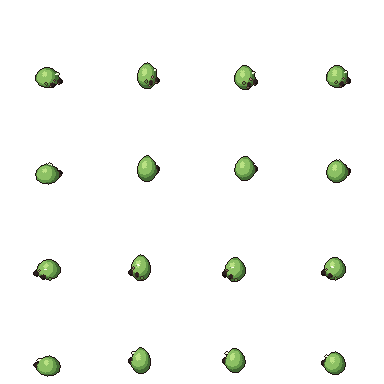
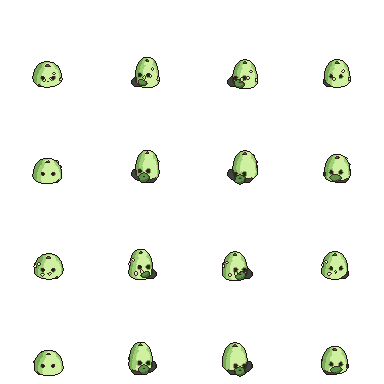
fix: monsters: mossSlime legivel (gota que espalha, rosto, nucleo, musgo e sombra)
- base larga e topo arredondado com bico leve (perfil por aneis, exato)
- rosto voltado para a camera nas 4 direcoes: olhos 3-4 px com brilho branco e boca simples
- nucleo escuro na frente, pedrinhas e folhas claras visiveis, tufo de musgo no topo
- sombra de contato no chao (disco escuro fixo); pivo (48, 80) para caber a sombra

diff --git a/art-source/monsters/mossSlime/build.py b/art-source/monsters/mossSlime/build.py
@@ -1,15 +1,18 @@
 """Gosma-de-musgo (mossSlime), familia slime, fatia D1 do plano masmorra v2.
 
-Gota gelatinosa verde-musgo com pedrinhas e folhas presas na superficie, dois olhos e um brilho umido.
-Escala FISICA do personagem A7 (43,92 px por metro na celula 96): a gota tem ~0,45 m de altura, ~0,25 do
-jogador (1,9 m). Nada de autofit.
+Gota gelatinosa verde-musgo: base larga que se espalha no chao, topo arredondado com bico leve; nucleo mais
+escuro na frente, borda clara; 3 pedrinhas e 2 folhas claras presas na casca; tufo de musgo no topo; olhos
+com brilho e boca voltados para a frente nas 4 direcoes; sombra de contato no chao.
+Escala FISICA do personagem A7 (43,92 px/m na celula 96): gota de ~0,48 m, cerca de 0,25 do jogador. Sem autofit.
 
 Render: 4 direcoes radiais (SE, NE, SO, NO), sem espelho (a luz da biblioteca e assimetrica).
-Animacoes: parado 4 (pulsar), andar 6 (esticar e saltar), atacar 4 (bote, golpe no quadro 2),
-morrer 6 (derreter; fica no ultimo quadro). Saida: uma folha crua por animacao (linhas = direcoes na ordem de
-RADIAL4, colunas = quadros) em OUTDIR, e spec.json ao lado deste arquivo.
+Corpo e enfeites giram com a direcao; rosto e boca ficam voltados para a camera. A sombra fica no chao.
+Animacoes: parado 4 (pulsar), andar 6 (esticar e saltar), atacar 4 (bote, golpe no quadro 2), morrer 6 (derreter).
+Saida: uma folha crua por animacao (linhas = direcoes na ordem de RADIAL4, colunas = quadros) em OUTDIR, e
+spec.json ao lado deste arquivo.
 
-Ambiente: REPO (raiz do worktree), OUTDIR (saida crua), ANIMS (ex.: parado,andar; padrao todas), TAG (log).
+Ambiente: REPO (raiz do worktree), OUTDIR (saida crua), ANIMS (ex.: parado,andar; padrao todas), TAG (log),
+ESCREVER_SPEC (1 grava spec.json).
 Rodar: REPO=... OUTDIR=... ANIMS=parado timeout 900 blender -b --factory-startup -P build.py
 """
 import json
@@ -34,22 +37,82 @@ HERE = os.path.dirname(os.path.abspath(__file__))
 TAG = os.environ.get("TAG", "run")
 DIRS = PP.RADIAL4                          # SE, NE, SO, NO (ordem de FOUR em game/monster-sprites.mjs)
 
-ALTURA = 0.45                              # m
-RAIO = 0.26                                # m, meia largura da base
+ALTURA = 0.45                              # m (corpo, sem o bico)
+RAIO = 0.26                                # m, raio de referencia
+BICO = 0.03                                # m, bico leve no topo
+
 # ------------------------------------------------------------------ paleta por material (tons claro -> escuro)
 MATS = {
-    "gelatina": dict(r=[(186, 226, 132), (140, 192, 100), (98, 150, 72), (66, 104, 52)], layer="corpo",
-                     w=1.0, dith=0.02, bias=0.0, ao=0.45),
-    "pedra": dict(r=[(164, 146, 122), (120, 104, 88), (84, 72, 60)], layer="corpo", w=0.9, dith=0.02, bias=0.0, ao=0.6),
-    "folha": dict(r=[(92, 150, 70), (60, 110, 48), (40, 76, 36)], layer="corpo", w=0.9, dith=0.02, bias=0.0, ao=0.6),
-    "olho": dict(r=[(44, 34, 34), (22, 18, 18)], layer="olhos", w=1.0, dith=0.0, bias=0.0, ao=0.2),
-    "brilho": dict(r=[(248, 252, 230), (214, 236, 196)], layer="brilho", w=1.0, dith=0.0, bias=0.0, ao=0.0),
+    "gelatina": dict(r=[(206, 240, 160), (160, 206, 118), (118, 168, 88)], layer="corpo", w=1.0, dith=0.02, bias=0.0, ao=0.4),
+    "nucleo": dict(r=[(92, 146, 74), (64, 110, 54)], layer="corpo", w=1.0, dith=0.02, bias=0.0, ao=0.5),
+    "pedra_clara": dict(r=[(246, 242, 226), (214, 208, 186), (176, 170, 150)], layer="corpo", w=0.9, dith=0.02, bias=0.0, ao=0.5),
+    "folha_clara": dict(r=[(206, 240, 150), (168, 212, 118)], layer="corpo", w=0.9, dith=0.02, bias=0.0, ao=0.5),
+    "musgo": dict(r=[(70, 122, 52), (46, 92, 38)], layer="corpo", w=1.0, dith=0.02, bias=0.0, ao=0.6),
+    "sombra": dict(r=[(60, 70, 60), (42, 50, 42)], layer="sombra", w=1.0, dith=0.0, bias=0.0, ao=0.0),
+    "olho": dict(r=[(34, 30, 30), (16, 14, 14)], layer="olhos", w=1.0, dith=0.0, bias=0.0, ao=0.2),
+    "brilho": dict(r=[(255, 255, 240), (230, 246, 210)], layer="brilho", w=1.0, dith=0.0, bias=0.0, ao=0.0),
 }
-CAMADAS = ["corpo", "olhos", "brilho"]
-ESTILO = PP.Estilo(tile=TILE, mats=MATS, camadas=CAMADAS, sem_linha=("brilho",))
+CAMADAS = ["sombra", "corpo", "olhos", "brilho"]          # ordem de baixo para cima
+# pe do modelo na linha 80 (pivo (48, 80)): a sombra de contato precisa de folga abaixo da base iso
+ESTILO = PP.Estilo(tile=TILE, mats=MATS, camadas=CAMADAS, sem_linha=("brilho", "sombra"),
+                   origem_y=80.0, pivo=(TILE // 2, 80))
 
 
-# ------------------------------------------------------------------ malhas (metros, base no z = 0, olhos na frente = -Y)
+# ------------------------------------------------------------------ perfil do corpo (anel por anel, exato)
+N_ANEIS = 10
+M_LADOS = 14
+
+
+def perfil():
+    """Anel i (1..N): s = i/N de 0 (topo) a 1 (base). Base larga (1,1 R), topo arredondado (0,5 R) com bico."""
+    zs, rs = [], []
+    for i in range(1, N_ANEIS + 1):
+        s = i / N_ANEIS
+        z = ALTURA * math.cos(s * math.pi / 2) ** 0.9 + BICO * max(0.0, 1 - s / 0.2) ** 2
+        r = RAIO * (0.5 + 0.6 * math.sin(s * math.pi / 2))
+        zs.append(z)
+        rs.append(r)
+    return zs, rs
+
+
+ZS, RS = perfil()
+ZS_ASC, RS_ASC = list(reversed(ZS)), list(reversed(RS))
+
+
+def raio_superficie(z):
+    """Raio da casca na altura z (interpolado entre os aneis exatos)."""
+    return float(np.interp(min(max(z, 0.0), ZS[0]), ZS_ASC, RS_ASC))
+
+
+def sobre_superficie(theta, z, afasta=0.0):
+    r = raio_superficie(z) + afasta
+    return (r * math.cos(theta), r * math.sin(theta), z)
+
+
+def gelatina():
+    verts = [(0.0, 0.0, ZS[0] + 0.0)]                         # polo do topo (com bico)
+    verts[0] = (0.0, 0.0, ZS[0] + 0.0)
+    for i in range(N_ANEIS):
+        for j in range(M_LADOS):
+            a = 2 * math.pi * j / M_LADOS
+            verts.append((RS[i] * math.cos(a), RS[i] * math.sin(a), ZS[i]))
+    centro_base = len(verts)
+    verts.append((0.0, 0.0, 0.0))
+
+    def idx(i, j):                                            # i = 0..N-1 (anel i+1), j modulo M
+        return 1 + i * M_LADOS + (j % M_LADOS)
+
+    faces = []
+    for j in range(M_LADOS):
+        faces.append((0, idx(0, j), idx(0, j + 1)))
+    for i in range(N_ANEIS - 1):
+        for j in range(M_LADOS):
+            faces.append((idx(i, j), idx(i, j + 1), idx(i + 1, j + 1), idx(i + 1, j)))
+    for j in range(M_LADOS):
+        faces.append((centro_base, idx(N_ANEIS - 1, j + 1), idx(N_ANEIS - 1, j)))
+    return verts, faces
+
+
 def icosfera(sub):
     t = (1 + 5 ** 0.5) / 2
     v = [(-1, t, 0), (1, t, 0), (-1, -t, 0), (1, -t, 0), (0, -1, t), (0, 1, t), (0, -1, -t), (0, 1, -t),
@@ -60,6 +123,7 @@ def icosfera(sub):
     v = [tuple(np.array(p) / np.linalg.norm(p)) for p in v]
     for _ in range(sub):
         cache, nf = {}, []
+
         def meio(a, b):
             k = (min(a, b), max(a, b))
             if k not in cache:
@@ -74,83 +138,52 @@ def icosfera(sub):
     return [tuple(p) for p in v], f
 
 
-def corpo_gelatina():
-    """Icosfera de 80 faces (sub=1): cupula com base plana; base larga, topo mais estreito."""
-    v, f = icosfera(1)
-    out = []
-    for x, y, z in v:
-        t = min(1.0, max(0.0, (z + 0.85) / 1.7))          # 0 na base, 1 no topo (aprox.; icosfera tem z em [-0.85, 0.85])
-        h = t * ALTURA
-        fat = 1.0 - 0.35 * t * t
-        out.append((x * RAIO * fat, y * RAIO * fat, h))
-    return out, f
+def elipsoide(c, rx, ry, rz, sub=1):
+    v, f = icosfera(sub)
+    return [(c[0] + x * rx, c[1] + y * ry, c[2] + z * rz) for x, y, z in v], f
 
 
-def pedrinha(c, r):
-    v, f = icosfera(0)
-    return [(c[0] + x * r, c[1] + y * r, c[2] + z * r * 0.7) for x, y, z in v], f
-
-
-def raio_superficie(z):
-    """Raio da superficie do corpo na altura z (mesma forma de corpo_gelatina)."""
-    t = min(1.0, max(0.0, z / ALTURA))
-    return RAIO * (1.0 - 0.35 * t * t)
-
-
-def sobre_superficie(theta, z, afasta=0.0):
-    r = raio_superficie(z) + afasta
-    return (r * math.cos(theta), r * math.sin(theta), z)
-
-
-def folha(theta, z, comp=0.05, larg=0.032):
-    """Folha vertical presa na superficie: losango no plano tangente (T, Z), afastado 0,012 m da casca."""
-    u = (math.cos(theta), math.sin(theta), 0.0)
+def folha(theta, z, comp=0.055, larg=0.034):
+    """Folha vertical presa na casca: losango no plano tangente, afastado da casca."""
     T = (-math.sin(theta), math.cos(theta), 0.0)
-    c = sobre_superficie(theta, z, 0.012)
+    c = sobre_superficie(theta, z, 0.008)
+
     def ponto(a, b):
-        return (c[0] + u[0] * 0 + T[0] * a, c[1] + T[1] * a, c[2] + b)
+        return (c[0] + T[0] * a, c[1] + T[1] * a, c[2] + b)
     return [ponto(0, comp), ponto(larg, 0), ponto(0, -comp * 0.6), ponto(-larg, 0)], [(0, 1, 2, 3)]
 
 
-def olho(theta, z):
-    v, f = icosfera(1)
-    c = sobre_superficie(theta, z, 0.01)
-    return [(c[0] + x * 0.06, c[1] + y * 0.06, c[2] + z2 * 0.06) for x, y, z2 in v], f
+# ------------------------------------------------------------------ partes: (nome, layer, material, grupo, malha, grupo_de_pose)
+# grupo_de_pose: "corpo" gira com a direcao e recebe a pose; "rosto" fica voltado para a camera; "fixo" so gira
+PARTES = []
 
 
-def brilho_umido(theta, z):
-    v, f = icosfera(1)
-    c = sobre_superficie(theta, z, 0.004)
-    return [(c[0] + x * 0.045, c[1] + y * 0.03, c[2] + z2 * 0.018) for x, y, z2 in v], f
+def add(nome, layer, mat, grp, malha, pose_grp="corpo"):
+    PARTES.append((nome, layer, mat, grp, malha, pose_grp))
 
 
-def pedrinha(theta, z, r):
-    v, f = icosfera(0)
-    c = sobre_superficie(theta, z, r * 0.35)
-    return [(c[0] + x * r, c[1] + y * r, c[2] + z2 * r * 0.8) for x, y, z2 in v], f
-
-
-# superficie: pedrinhas e folhas presas na casca (angulo em rad: -pi/2 = frente, -Y; z em m)
-PEDRAS = [(math.radians(-75), 0.14, 0.030), (math.radians(-120), 0.11, 0.024), (math.radians(-98), 0.27, 0.022)]
-FOLHAS = [(math.radians(-140), 0.20), (math.radians(-40), 0.10)]
-OLHOS = [(math.radians(-112), 0.16), (math.radians(-68), 0.16)]
-BRILHO = (math.radians(-62), 0.36)
-
-PARTES = []  # (nome, layer, material, grupo, (verts, faces))
-
-
-def add(nome, layer, mat, grp, malha):
-    PARTES.append((nome, layer, mat, grp, malha))
-
-
-add("corpo", "corpo", "gelatina", 1, corpo_gelatina())
-for i, (th, z, r) in enumerate(PEDRAS):
-    add("pedra%d" % i, "corpo", "pedra", 3, pedrinha(th, z, r))
+add("sombra", "sombra", "sombra", 8, elipsoide((0.0, 0.0, 0.002), 0.35, 0.23, 0.002, 1), "fixo")
+add("casca", "corpo", "gelatina", 1, gelatina())
+add("nucleo", "corpo", "nucleo", 6, elipsoide((0.0, -0.17, 0.085), 0.13, 0.09, 0.09, 1), "rosto")
+PEDRAS = [(math.radians(-70), 0.12, 0.036, "pedra_clara"), (math.radians(-118), 0.24, 0.030, "pedra_clara"),
+          (math.radians(-100), 0.36, 0.026, "pedra_clara")]
+for i, (th, z, r, mat) in enumerate(PEDRAS):
+    c = sobre_superficie(th, z, r * 0.4)
+    add("pedra%d" % i, "corpo", mat, 3, elipsoide(c, r, r, r * 0.8, 0))
+FOLHAS = [(math.radians(-150), 0.20), (math.radians(-40), 0.16)]
 for i, (th, z) in enumerate(FOLHAS):
-    add("folha%d" % i, "corpo", "folha", 4, folha(th, z))
+    add("folha%d" % i, "corpo", "folha_clara", 4, folha(th, z))
+MUSGO = [((0.00, 0.00), 0.455, 0.040), ((0.05, 0.03), 0.430, 0.030), ((-0.05, 0.02), 0.420, 0.030), ((0.01, -0.05), 0.440, 0.026)]
+for i, ((dx, dy), z, r) in enumerate(MUSGO):
+    add("musgo%d" % i, "corpo", "musgo", 7, elipsoide((dx, dy, z), r, r, r * 0.7, 0))
+# rosto (frente = camera): olhos maiores, brilho branco de 1 px e boca simples
+OLHOS = [(math.radians(-112), 0.27), (math.radians(-68), 0.27)]
 for i, (th, z) in enumerate(OLHOS):
-    add("olho%d" % i, "olhos", "olho", 2, olho(th, z))
-add("brilho", "brilho", "brilho", 5, brilho_umido(*BRILHO))
+    c = sobre_superficie(th, z, 0.024)
+    add("olho%d" % i, "olhos", "olho", 2, elipsoide(c, 0.05, 0.05, 0.05, 1), "rosto")
+    add("brilho%d" % i, "brilho", "brilho", 5, elipsoide((c[0] - 0.016, c[1] - 0.030, c[2] + 0.018), 0.014, 0.014, 0.014, 0), "rosto")
+boca_c = sobre_superficie(math.radians(-90), 0.165, 0.012)
+add("boca", "olhos", "olho", 9, elipsoide(boca_c, 0.045, 0.011, 0.011, 0), "rosto")
 
 for ob in list(bpy.data.objects):
     bpy.data.objects.remove(ob, do_unlink=True)
@@ -163,7 +196,7 @@ for nome in ESTILO.nomes:
     BMAT[nome] = m
 
 PARTS = []
-for nome, layer, mat, grp, (verts, faces) in PARTES:
+for nome, layer, mat, grp, (verts, faces), pose_grp in PARTES:
     me = bpy.data.meshes.new(nome)
     me.from_pydata(verts, [], faces)
     me.update()
@@ -179,11 +212,10 @@ for nome, layer, mat, grp, (verts, faces) in PARTES:
     me.materials.append(BMAT[mat])
     ob = bpy.data.objects.new(nome, me)
     coll.objects.link(ob)
-    ob["layer"], ob["only"], ob["grp"] = layer, "", grp
+    ob["layer"], ob["only"], ob["grp"], ob["pose"] = layer, "", grp, pose_grp
     PARTS.append(ob)
 
-
-# ------------------------------------------------------------------ poses (locais, base no z = 0; a frente e -Y)
+# ------------------------------------------------------------------ poses (locais, base no z = 0)
 def escala(sz):
     """Estica em Z e mantem o volume aproximado nos eixos X/Y."""
     return Matrix.Diagonal(Vector((1 / math.sqrt(sz), 1 / math.sqrt(sz), sz, 1)))
@@ -191,8 +223,7 @@ def escala(sz):
 
 def pose(anim, f):
     if anim == "parado":                      # pulsar: inspira e expira, base fixa
-        sz = [1.00, 1.05, 1.00, 0.96][f]
-        return escala(sz)
+        return escala([1.00, 1.05, 1.00, 0.96][f])
     if anim == "andar":                       # esticar e saltar: agacha, estica, sobe, cai
         sz = [0.85, 1.15, 1.10, 0.85, 1.08, 0.97][f]
         hop = [0.0, 0.03, 0.06, 0.0, 0.02, 0.0][f]
@@ -235,10 +266,27 @@ def yaw_para(dname):
     return math.atan2(f.x, -f.y)
 
 
-def pousar(M_local, yaw):
-    M = Matrix.Rotation(yaw, 4, "Z") @ M_local
+# o rosto (-Y local) aponta para a camera: a camera fica em +BACK (cam.location = ... + BACK * 10)
+_v = Vector((PIPE.back.x, PIPE.back.y, 0)).normalized()
+YAW_ROSTO = math.atan2(_v.x, -_v.y)
+
+
+def pousar(M_local, yaw, grupo):
+    if grupo == "rosto":
+        M = Matrix.Rotation(YAW_ROSTO, 4, "Z") @ M_local
+    elif grupo == "fixo":                       # sombra: so gira com a direcao, sem pose
+        M = Matrix.Rotation(yaw, 4, "Z")
+    else:
+        M = Matrix.Rotation(yaw, 4, "Z") @ M_local
     for ob in PARTS:
-        ob.matrix_world = M
+        if ob["pose"] == grupo:
+            ob.matrix_world = M
+
+
+def pousar_todos(M_local, yaw):
+    pousar(M_local, yaw, "corpo")
+    pousar(M_local, yaw, "rosto")
+    pousar(M_local, yaw, "fixo")
 
 
 # ------------------------------------------------------------------ renders: 4 direcoes x quadros x camadas
@@ -248,7 +296,7 @@ for anim in ANIMS_EXEC:
     for dname in DIRS:
         cels = []
         for f in range(nf):
-            pousar(pose(anim, f), yaw_para(dname))
+            pousar_todos(pose(anim, f), yaw_para(dname))
             PIPE.set_attrs()
             partes = [PIPE.estagio(CAMADAS, camada)[0] for camada in CAMADAS]
             cels.append(PP.compose(partes))
@@ -273,8 +321,8 @@ if os.environ.get("ESCREVER_SPEC", "1") == "1":
                       **({"golpe_quadro": GOLPE_QUADRO[a]} if a in GOLPE_QUADRO else {})} for a in ANIMS},
         "paleta": sorted([list(c) for c in ESTILO.paleta]),
         "paleta_max": PP.PALETA_MAX,
-        "nota": "translucidez simulada por tons e brilho (a biblioteca tem alfa binario); pedrinhas e folhas sao "
-                "inclusoes na superficie",
+        "nota": "translucidez simulada por tons (nucleo escuro, borda clara); alfa binario. Pedrinhas e folhas sao "
+                "inclusoes claras na casca. Sombra de contato e um disco escuro fixo (alfa binario, sem meio-tom).",
     }
     with open(os.path.join(HERE, "spec.json"), "w", encoding="utf-8") as fh:
         json.dump(spec, fh, indent=1, ensure_ascii=False)
